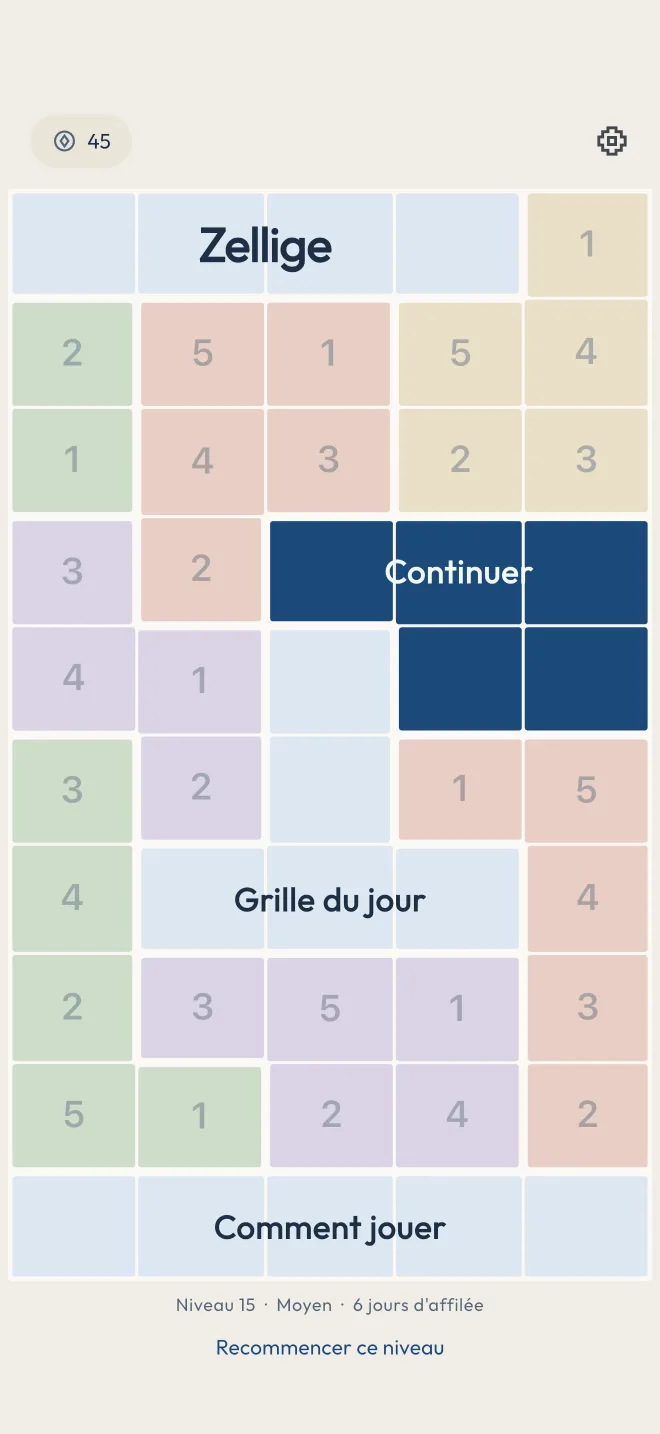
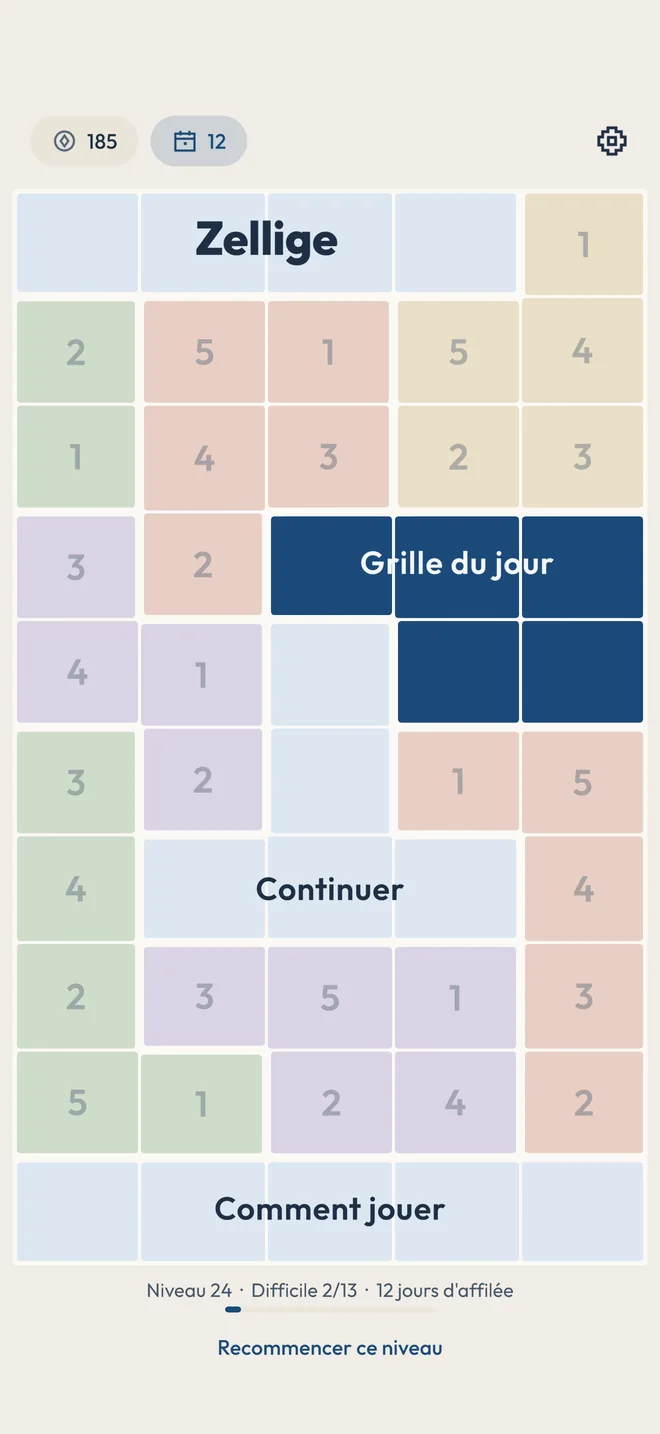
Captures des versions Unity : Binero 2.2, Zellige et tenGO 4.0
Claude-Session: https://claude.ai/code/session_012uZdPvdUxSGU54mYFgdtWt

diff --git a/src/lib/apps.ts b/src/lib/apps.ts
@@ -170,11 +170,12 @@ export const APPS: AppData[] = [
       web: '/play/zellige/',
     },
     icon: '/assets/icons/zellige.svg',
+    // Captures de la version Unity (`Zellige.Editor.Captures.StoreShots`, fr, iPhone 1320×2868).
     screenshots: [
       { src: '/assets/zellige-screen-accueil.webp', alt: "L'accueil est lui-même une grille de Tectonic : Continuer, Grille du jour et Comment jouer sont des blocs" },
-      { src: '/assets/zellige-screen-partie.webp', alt: 'Une grille 7×8 en cours, niveau 15, avec des annotations et le bloc sélectionné cerné de bleu' },
-      { src: '/assets/zellige-screen-sombre.webp', alt: 'La même grille en thème sombre : le joint devient l’ombre entre les carreaux' },
-      { src: '/assets/zellige-screen-jour.webp', alt: 'La grille du jour, une 12×12 experte' },
+      { src: '/assets/zellige-screen-partie.webp', alt: 'Le niveau 24, une grille 9×9 à moitié remplie, le bloc de la case sélectionnée cerné de bleu' },
+      { src: '/assets/zellige-screen-indice.webp', alt: 'Un indice expliqué : « Ce bloc n’a plus qu’une case vide : il lui manque le 4 »' },
+      { src: '/assets/zellige-screen-sombre.webp', alt: 'Le niveau 60 en thème sombre, une grande grille 12×12' },
     ],
     sdk: { ads: true, purchases: false, analytics: true, network: false, accounts: true },
     privacyUpdated: '2026-08-31',
@@ -297,11 +298,12 @@ export const APPS: AppData[] = [
       web: '/play/binero/',
     },
     icon: '/assets/icons/binero.svg',
-    // Captures réelles de l'app iOS (`binero_IOS/marketing/screens-real`, `screens-v3`).
+    // Captures de la version Unity 2.2 (pilote `ScreenshotDriver`, simulateur iPhone, fr).
     screenshots: [
-      { src: '/assets/binero-screen-partie.webp', alt: 'Une grille 6×6 du niveau 1 en cours : des 0 orange et des 1 verts, quelques cases encore vides' },
-      { src: '/assets/binero-screen-accueil.webp', alt: "L'accueil : la grille du jour en mode cauchemar, Jouer et le classement mondial" },
-      { src: '/assets/binero-screen-jour.webp', alt: 'La grille du jour, une 14×14 en mode cauchemar' },
+      { src: '/assets/binero-screen-partie.webp', alt: 'Le niveau 12, une grille 8×8 en cours : des 0 orange et des 1 verts, des cases encore vides' },
+      { src: '/assets/binero-screen-defis.webp', alt: 'Trois défis chaque jour : Facile 6×6, Normal 10×10 et Expert 14×14' },
+      { src: '/assets/binero-screen-jour.webp', alt: 'La grille du jour en Expert, une 14×14' },
+      { src: '/assets/binero-screen-victoire.webp', alt: 'Grille du jour résolue : temps, indices, pièces gagnées et une série de 6 jours' },
     ],
     sdk: { ads: true, purchases: true, analytics: true, network: true, accounts: true },
     privacyUpdated: '2026-08-16',
@@ -440,12 +442,12 @@ export const APPS: AppData[] = [
       android: 'https://play.google.com/store/apps/details?id=com.appcraft31.tengo',
     },
     icon: '/assets/icons/tengo.svg',
+    // Captures de la version Unity 4.0 (`TenGo.Editor.StoreShots`, fr, iPhone 1320×2868).
     screenshots: [
-      { src: '/assets/tengo-menu.webp', alt: "Le menu de tenGO" },
-      { src: '/assets/tengo-grid.webp', alt: "Une grille de bulles en cours de partie" },
-      { src: '/assets/tengo-combo.webp', alt: "Un combo qui rapporte plus de cent points" },
-      { src: '/assets/tengo-play.webp', alt: "Un chemin tracé entre plusieurs bulles" },
-      { src: '/assets/tengo-leaderboard.webp', alt: "Les dix meilleurs scores, conservés sur l'appareil" },
+      { src: '/assets/tengo-menu.webp', alt: "L'accueil : Jouer, le défi du jour, et les modes Rush, Duel et Puzzles" },
+      { src: '/assets/tengo-chain.webp', alt: 'Une chaîne de bulles reliées dont la somme fait 10 : +200 points' },
+      { src: '/assets/tengo-flower.webp', alt: 'Une longue chaîne fait éclore une fleur qui multiplie les points par trois' },
+      { src: '/assets/tengo-brain.webp', alt: 'Ton cerveau : coup d’œil, vision, anticipation et le carnet des 41 façons de faire 10' },
     ],
     sdk: { ads: true, purchases: true, analytics: true, network: false, accounts: true },
     privacyUpdated: '2026-08-16',
